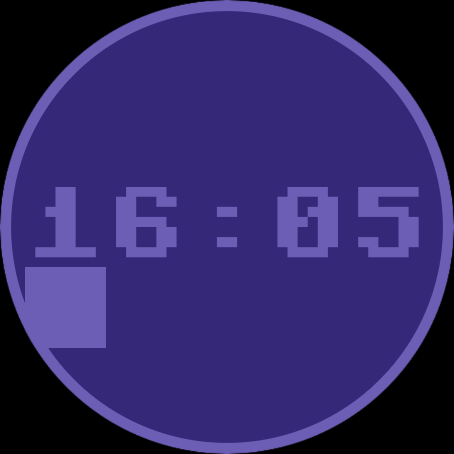
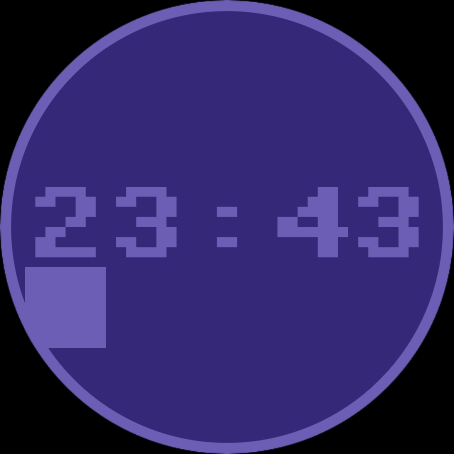
Screenshots and README updated

diff --git a/common/src/androidTest/java/com/thomaskuenneth/common/WearStoreScreenshotTest.kt b/common/src/androidTest/java/com/thomaskuenneth/common/WearStoreScreenshotTest.kt
@@ -1,0 +1,214 @@
+package com.thomaskuenneth.common
+
+import android.graphics.BitmapFactory
+import android.os.SystemClock
+import androidx.test.ext.junit.runners.AndroidJUnit4
+import androidx.test.platform.app.InstrumentationRegistry
+import androidx.test.uiautomator.By
+import androidx.test.uiautomator.Direction
+import androidx.test.uiautomator.StaleObjectException
+import androidx.test.uiautomator.UiDevice
+import androidx.test.uiautomator.UiObject2
+import androidx.test.uiautomator.Until
+import org.junit.Assert.assertEquals
+import org.junit.Assert.assertNotNull
+import org.junit.Assert.assertTrue
+import org.junit.After
+import org.junit.Before
+import org.junit.Test
+import org.junit.runner.RunWith
+import java.io.File
+
+private const val TIMEOUT = 8_000L
+private const val EDIT = "Edit watch face"
+private const val BLINK_PERIOD_MILLIS = 666L
+private const val CURSOR_RED = 90
+private const val CURSOR_BLUE = 150
+private const val CURSOR_BLOCK = 24
+private const val CURSOR_AREA_TOP = 240
+private const val SHOT_ATTEMPTS = 8
+
+@RunWith(AndroidJUnit4::class)
+class WearStoreScreenshotTest {
+
+    private val device: UiDevice =
+        UiDevice.getInstance(InstrumentationRegistry.getInstrumentation())
+
+    private val output = File(
+        InstrumentationRegistry.getArguments().getString("additionalTestOutputDir")
+            ?: InstrumentationRegistry.getInstrumentation().context
+                .getExternalFilesDir(null)?.absolutePath.orEmpty(),
+        "wear-store-screenshots",
+    )
+
+    @Before
+    fun prepareTheWatch() {
+        output.deleteRecursively()
+        output.mkdirs()
+        unplugTheCharger()
+    }
+
+    @After
+    fun restoreTheWatch() {
+        choose("Seconds", "Hide seconds")
+        choose("Date", "Hide date")
+        choose("Capitals", "Upper and lower case")
+        unplugTheCharger()
+    }
+
+    private fun unplugTheCharger() {
+        device.executeShellCommand("dumpsys battery unplug")
+        device.executeShellCommand("dumpsys battery set level 100")
+    }
+
+    private fun assertNoChargingIndicator() {
+        val battery = device.executeShellCommand("dumpsys battery")
+        assertTrue(
+            "the watch reports itself as charging, which puts a power symbol on the face",
+            battery.contains("AC powered: false") &&
+                battery.contains("USB powered: false"),
+        )
+    }
+
+    @Test
+    fun captureTheStoreScreenshots() {
+        choose("Seconds", "Hide seconds")
+        choose("Date", "Hide date")
+        choose("Capitals", "Upper and lower case")
+        shoot("01")
+
+        choose("Seconds", "Show seconds")
+        choose("Date", "Show date")
+        choose("Capitals", "Capitals only")
+        shoot("02")
+
+        shootEditor("03", "Seconds")
+        shootEditor("04", "Date")
+        shootEditor("05", "Capitals")
+
+        val captured = output.listFiles().orEmpty().map { it.name }.sorted()
+        assertEquals(
+            listOf("01.png", "02.png", "03.png", "04.png", "05.png"),
+            captured,
+        )
+    }
+
+    private fun watchFace() {
+        if (!device.isScreenOn) {
+            device.wakeUp()
+            device.waitForIdle()
+        }
+        repeat(3) {
+            if (device.hasObject(By.descContains("Watch face"))) return
+            device.pressHome()
+            device.wait(Until.hasObject(By.descContains("Watch face")), TIMEOUT)
+        }
+        assertTrue("the watch face never came to the front", device.hasObject(By.descContains("Watch face")))
+    }
+
+    private fun openEditor() {
+        watchFace()
+        val face = device.findObject(By.descContains("Watch face"))
+        assertNotNull("no watch face on screen", face)
+        face.longClick()
+        val edit = device.wait(Until.findObject(By.desc(EDIT)), TIMEOUT)
+        assertNotNull("the watch face picker did not offer '$EDIT'", edit)
+        edit.click()
+        val deadline = System.currentTimeMillis() + TIMEOUT
+        while (currentSetting() == null && System.currentTimeMillis() < deadline) {
+            device.waitForIdle()
+        }
+    }
+
+    private fun chip(): UiObject2? = try {
+        device.findObjects(By.descContains("watch face"))
+            .firstOrNull { candidate ->
+                !candidate.text.isNullOrEmpty() &&
+                    candidate.contentDescription.orEmpty().startsWith(candidate.text)
+            }
+    } catch (_: StaleObjectException) {
+        null
+    }
+
+    private fun currentSetting(): String? = try {
+        chip()?.contentDescription?.substringAfterLast("watch face ")?.trim()
+    } catch (_: StaleObjectException) {
+        null
+    }
+
+    private fun pageSwipe(forward: Boolean) {
+        val pager = device.findObject(By.scrollable(true))
+        assertNotNull("the editor has no pager", pager)
+        pager.fling(if (forward) Direction.LEFT else Direction.RIGHT)
+        device.waitForIdle()
+    }
+
+    private fun onPage(setting: String, act: () -> Unit) {
+        openEditor()
+        repeat(3) {
+            if (currentSetting() == null) openEditor()
+            pageSwipe(forward = false)
+        }
+        if (currentSetting() == null) openEditor()
+        repeat(4) {
+            if (currentSetting() == setting) {
+                act()
+                device.pressBack()
+                watchFace()
+                return
+            }
+            pageSwipe(forward = true)
+        }
+        device.dumpWindowHierarchy(File(output, "seek_$setting.xml"))
+        throw AssertionError("the editor never showed the page for $setting, saw ${currentSetting()}")
+    }
+
+    private fun choose(setting: String, option: String) = onPage(setting) {
+        val chip = requireNotNull(chip()) { "no chip for $setting" }
+        chip.click()
+        val row = device.wait(Until.findObject(By.text(option)), TIMEOUT)
+        assertNotNull("'$option' is not offered for $setting", row)
+        row.click()
+        device.waitForIdle()
+    }
+
+    private fun shoot(name: String) {
+        watchFace()
+        assertNoChargingIndicator()
+        val shot = File(output, "$name.png")
+        repeat(SHOT_ATTEMPTS) {
+            device.takeScreenshot(shot)
+            if (hasLitCursor(shot)) return
+            SystemClock.sleep(BLINK_PERIOD_MILLIS / 3)
+        }
+        throw AssertionError("the cursor block is not lit in $name")
+    }
+
+    private fun shootEditor(name: String, setting: String) = onPage(setting) {
+        assertNoChargingIndicator()
+        device.takeScreenshot(File(output, "$name.png"))
+    }
+
+    private fun hasLitCursor(file: File): Boolean {
+        val shot = BitmapFactory.decodeFile(file.absolutePath)
+        val light = Array(shot.height) { y ->
+            BooleanArray(shot.width) { x ->
+                val pixel = shot.getPixel(x, y)
+                ((pixel shr 16) and 0xFF) > CURSOR_RED && (pixel and 0xFF) > CURSOR_BLUE
+            }
+        }
+        shot.recycle()
+        for (top in CURSOR_AREA_TOP until light.size - CURSOR_BLOCK) {
+            for (left in 0 until light[top].size / 2 - CURSOR_BLOCK) {
+                if ((0 until CURSOR_BLOCK).all { row ->
+                        (0 until CURSOR_BLOCK).all { column -> light[top + row][left + column] }
+                    }
+                ) {
+                    return true
+                }
+            }
+        }
+        return false
+    }
+
+}

diff --git a/README.md b/README.md
@@ -1,39 +1,38 @@
-### Welcome to C64 Tribute Watchface
+### Welcome to C64 Tribute WatchFace
 
-<img src="./artwork/app_symbol.png" width="10%">
-
-This watchface for Wear OS by Google depicts the legendary colors of the Commodore 64 as well as its iconic font. Based on system settings time is shown in 12 or 24 hour format.
+This WatchFace for Wear OS by Google depicts the legendary colors of the Commodore 64 and its iconic font. Based on system settings, time is shown in 12 or 24-hour format.
 
 <p>
-<img src="./fastlane/metadata/android/en-US/images/wearScreenshots/01.png" width="24%">
-<img src="./fastlane/metadata/android/en-US/images/wearScreenshots/02.png" width="24%">
-<img src="./fastlane/metadata/android/en-US/images/wearScreenshots/03.png" width="24%">
-<img src="./fastlane/metadata/android/en-US/images/wearScreenshots/04.png" width="24%">
+<img src="./fastlane/metadata/android/en-US/images/wearScreenshots/01.png" width="32%">
+<img src="./fastlane/metadata/android/en-US/images/wearScreenshots/02.png" width="32%">
+<img src="./fastlane/metadata/android/en-US/images/wearScreenshots/03.png" width="32%">
 </p>
 
 ### What it shows
 
-- The time in the C64 screen colors and character set, with the blinking cursor below it
-- The date, if you want it, in the order your language uses
-- Seconds, if you want them, and uppercase letters, if you prefer them
-- White on black in ambient mode, with the cursor at rest
-- Round, square and rectangular watches each get their own layout
+- The time in the C64 screen colors and character set
+- A blinking cursor below the time
+- Optionally, seconds and the date as weekday and day of the month
+- Capitals only, or upper and lower case
+- Ambient mode in white on black, with the cursor stopped
+- A separate layout for round, square and rectangular watches
 
-The three options live where Wear OS keeps watch face settings: press and hold the face, tap Customize, and pick what the face should show.
+To change these settings, tap and hold the face, tap the pencil, and swipe through the available options.
 
 Get it for free on [Google Play](https://play.google.com/store/apps/details?id=com.thomaskuenneth.c64watchface).
 
 ### The phone app
 
-The phone app is a separate install. It shows the face as a preview and holds the same settings along with an About page. It used to carry the watch face inside it, so installing one installed the other. The Android Gradle Plugin dropped that mechanism, and Google Play expects the watch and the phone to ship as separate bundles.
+The phone app is a separate installation. It previews the face and carries the same three settings plus an About page. The watch face used to ship inside it, so installing one installed the other; the Android Gradle Plugin removed that, and Play takes the watch and the phone as separate bundles.
 
 ### License
 
-C64 Tribute Watchface is published under the terms of the [GNU General Public License Version 3](./gpl-3.0.txt). It uses the [Pet Me 64](https://www.kreativekorp.com/software/fonts/) font by Rebecca G. Bettencourt, Kreative Software, in accordance with the Kreative Software Relay Fonts Free Use License in [license.txt](./license.txt). The first version of this app, or rather its source code, appeared 2015 in the third edition of my book about Android development called *Android 5*.
+C64 Tribute WatchFace is published under the terms of the [GNU General Public License Version 3](./gpl-3.0.txt). It uses the [Pet Me 64](https://www.kreativekorp.com/software/fonts/) font by Rebecca G. Bettencourt, Kreative Software, in accordance with the Kreative Software Relay Fonts Free Use License in [license.txt](./license.txt). The first version of this app, or rather its source code, appeared 2015 in the third edition of my book about Android development called *Android 5*.
 
 ### Gradle cheat sheet
 
 - Build every bundle: `./gradlew bundleRelease` (one AAB per module, version codes derived from `baseVersionCode`)
 - Update store screenshots for every device class: `./gradlew :screenshots:generateStoreScreenshots` (starts `Pixel_10`, `Pixel_10_Pro_Fold` and `Pixel_Tablet` in turn, so none of them may already be running)
 - Update store screenshots on one running emulator only: `ANDROID_SERIAL=<serial> ./gradlew :screenshots:captureStoreScreenshots` (the device class is detected on the device)
+- Update the Wear store screenshots: `ANDROID_SERIAL=<serial of a 454x454 round Wear AVD> ./gradlew :common:captureWearScreenshots` (needs the face installed and active; writes `wearScreenshots/01-05.png`)
 - Release to Google Play: the *Upload to Play Internal Testing* workflow, which signs both bundles, uploads the watch face to the Wear OS track and the phone app to its own
